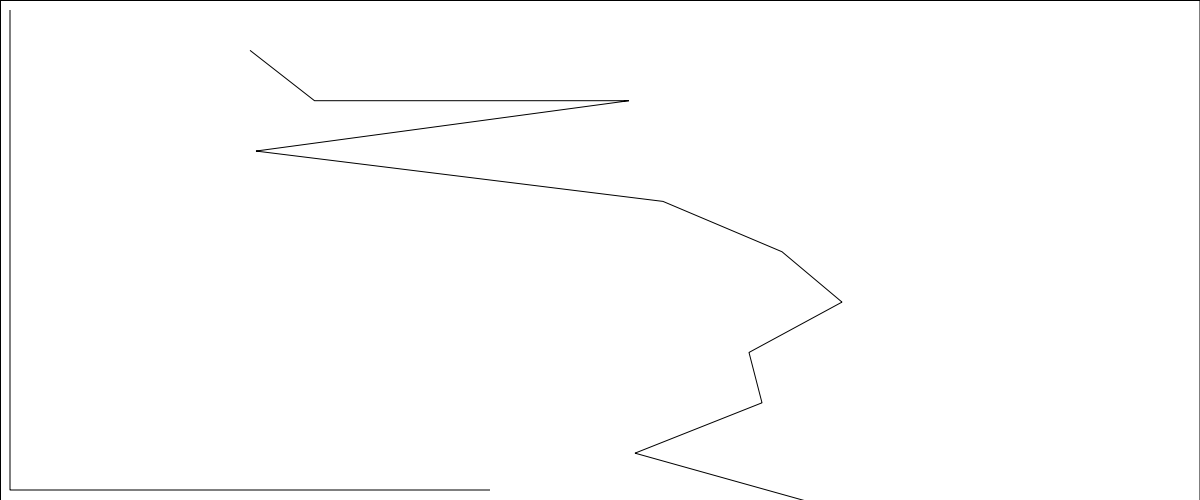
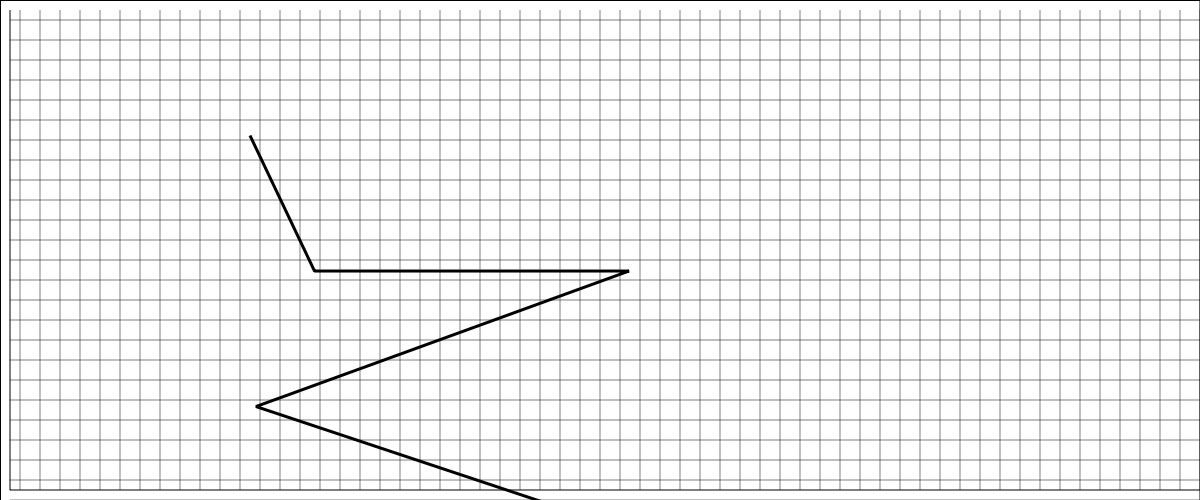
Extended graph drawing

Changed region(s): [[0.0, 0.03, 1.0, 1.0]]

diff --git a/FCFS.go b/FCFS.go
@@ -86,18 +86,37 @@ func fcfs() {
 	gc.FillStroke()
 	gc.MoveTo(10, 10)
 	gc.LineTo(10, 490.0)
-	gc.LineTo(490, 490)
+	gc.LineTo(1200, 490)
 	gc.Stroke()
 	gc.SetLineDash(nil, 0.0)
 	gc.MoveTo(float64(h)/2, delta_time*20)
 	gc.LineTo(g[0]/2, delta_time*20+delta_time*20)
+	//Стоим график
 	for k, v := range g {
+		gc.SetLineWidth(3.0)
+
 		gc.LineTo(v+1/2, float64(k+1)*delta_time*20+delta_time*20)
 		if k > n-2 {
 			break
 		}
 	}
 	gc.Stroke()
+	//gc.MoveTo(0.0, 0.0)
+	gc.SetLineWidth(0.5)
+	var cor1, cor2 float64 = 10, 10
+	//gc.SetLineDash([]float64{10, 10, 10, 10}, 90.0)
+	for i := 10; i < 1200; i = i + 20 {
+		gc.MoveTo(cor1 + float64(i), 490)
+		gc.LineTo(float64(i) + cor1, cor2)
+		gc.Stroke()
+	}
+	//gc.SetLineDash([]float64{20, 20, 20, 20}, 90.0)
+		for i := 10; i < 1200; i = i + 20 {
+		gc.MoveTo(10, cor2 + float64(i))
+		gc.LineTo(1200, cor2 + float64(i))
+		gc.Stroke()
+	}
+	//gc.Stroke()
 	saveToPngFile("FCFS_graph.png", d)
 }
 // Функции сохранения изображения графика
